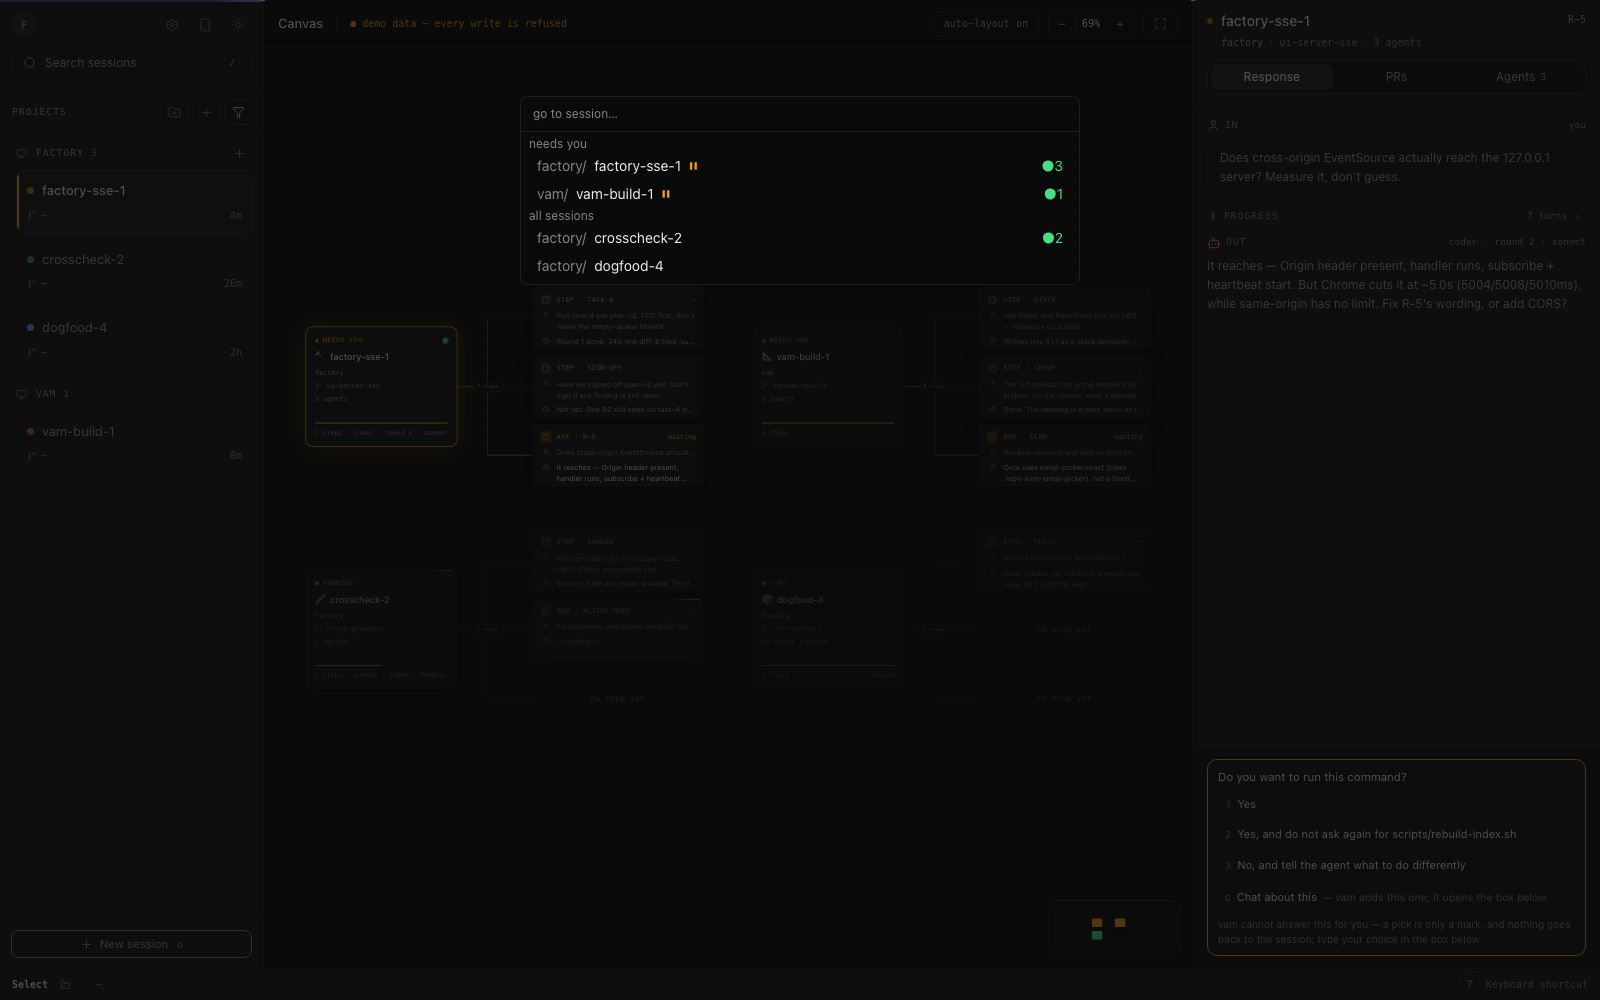
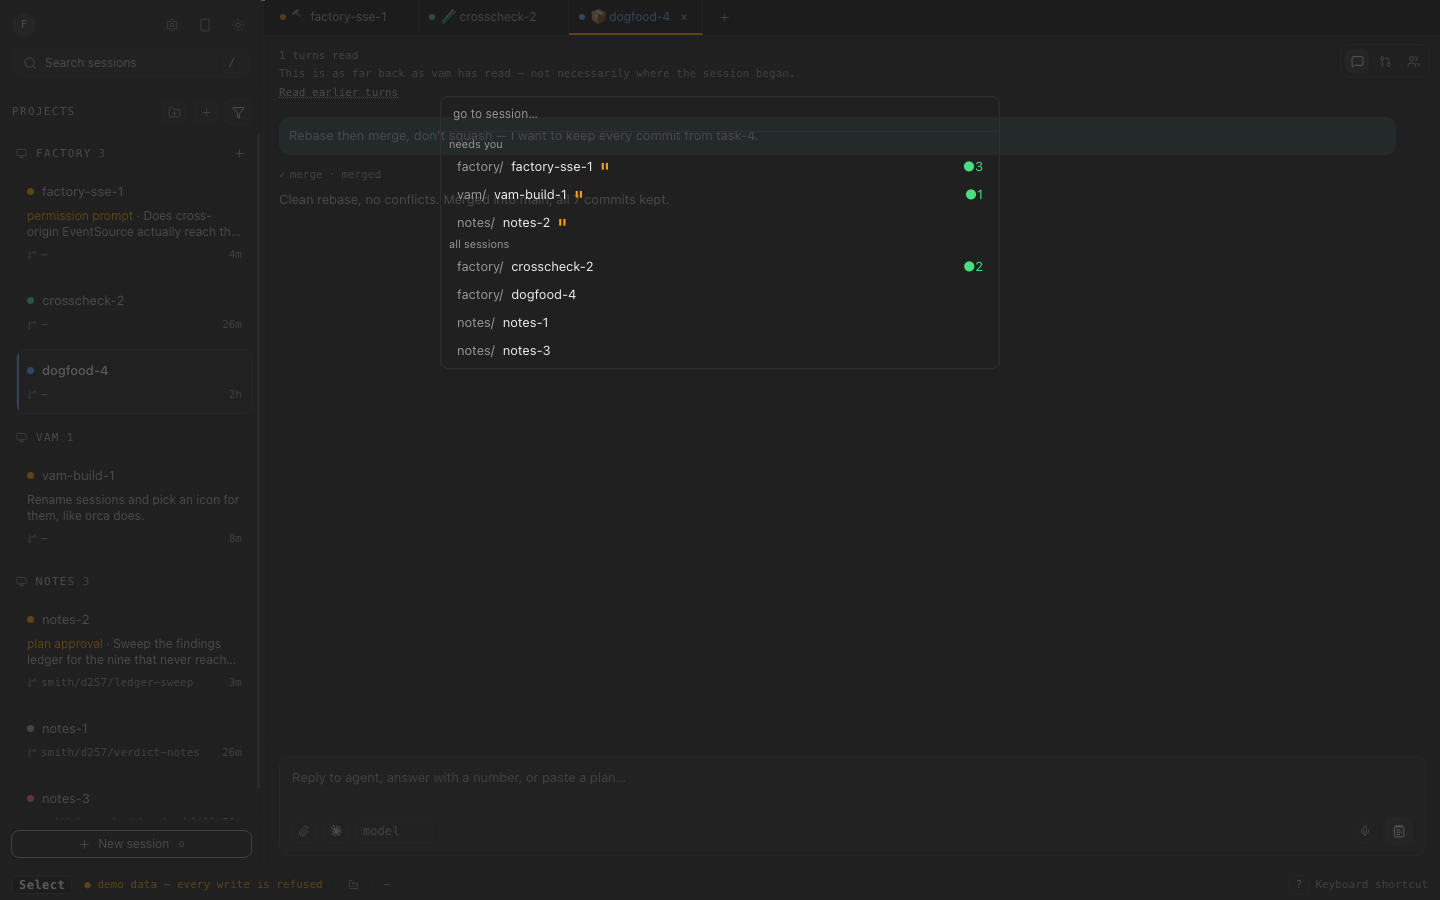
The README's front page shows a feature that was deleted three weeks ago (#343)
* docs(readme): retake the front-page screenshots for the 0.2 tab shell

canvas-dark.png, palette.png, terminal.png and image-attach.png all
predated PR #260 (the tab-shell migration) and showed the deleted
node-graph canvas, the pre-lift dark palette, or both — measured pixel
colours confirm the old (unlifted) #131313/#1d1d1d ground and pane
rather than today's #1c1c1c/#272727.

Retaken against a real `vite build`/`vite preview` of the current
build, `?demo=1` only, via a new e2e/readme-shots.mjs (wired into
e2e/README.md so the next retake is one command):

- hero-dark.png replaces canvas-dark.png: the tab shell itself —
  sidebar, sessions as tabs, one session's Response view with its
  IN/OUT.
- palette.png is re-rendered over the current shell instead of the
  deleted canvas; same content otherwise.
- agents-tab.png replaces terminal.png. The Terminal tab is withdrawn
  from the bar entirely in demo mode (no real tmux pane behind it,
  visibleTabs() in panels/tabs.ts), so it cannot be retaken like for
  like; the Agents tab is a real, current, demo-safe capability
  instead, and Terminal stays documented in prose.
- composer-attach.png replaces image-attach.png, showing the text-file
  attach rather than the image attach: the image-attach button needs a
  native Electron dialog and is likewise never drawn in demo mode.
  README prose still describes both capabilities; only the pictured
  one changed.
[…]

diff --git a/README.md b/README.md
@@ -7,7 +7,7 @@ vim-style keys instead of a mouse. vam runs on
 its own — it ships with a real, built-in source (your own Claude Code
 sessions) and does not require any other project to be installed or running.
 
-![vam, dark theme](docs/images/canvas-dark.png)
+![vam, dark theme: sessions as tabs, grouped by project in the sidebar, one session's IN/OUT on the right](docs/images/hero-dark.png)
 
 ## What this is
 
@@ -38,16 +38,26 @@ grouped into "needs you" and "all sessions":
 
 ![Command palette open](docs/images/palette.png)
 
-A session's Terminal tab shows the screen of the tmux pane vam started for
-it — a snapshot with the agent's own colours, not a live stream:
+A session's Agents tab is a navigator: the roster of subagents it is
+running on the left, and on the right the one you picked — its own IN/OUT
+and progress, not just the `●3` badge it collapses to elsewhere. (A session
+started by vam also has a Terminal tab, the screen of the tmux pane vam
+started for it — a snapshot with the agent's own colours, not a live
+stream; see the keyboard reference below.)
 
-![Terminal tab showing a captured pane](docs/images/terminal.png)
+![Agents tab showing one subagent's own IN/OUT](docs/images/agents-tab.png)
 
-The composer can attach a text file (read locally, folded into the prompt)
-or an image (validated against the session's own directory, its path put on
-its own line); vam uploads nothing in either case:
+The composer can attach a text file, read locally and folded straight into
+the prompt — vam uploads nothing:
 
-![Composer with an image attached](docs/images/image-attach.png)
+![Composer with a text file attached](docs/images/composer-attach.png)
+
+The desktop app can also attach an image, opening a native file picker and
+validating the answer against the session's own directory before putting its
+path on its own line in the prompt text; that dialog has no browser
+equivalent, so it is not pictured here — every screenshot in this README is
+`?demo=1`, vam's fictional fixture, and the image picker only exists where a
+real session and a real directory do.
 
 ## Install
 

diff --git a/e2e/README.md b/e2e/README.md
@@ -591,3 +591,35 @@ Falsified 2026-09-08: making `zv` a no-op in the served bundle (with
 `VAM_E2E_SKIP_BUILD=1`) reddens the job in 12s, naming both
 `split-panes-shots.mjs` — *"zv (split vertical) left 1 pane(s), expected 2"* —
 and `prompt-suggest-shots.mjs`, and exits 1.
+
+## `e2e/readme-shots.mjs` — the four screenshots `README.md` embeds
+
+Another shot-taker, not a guard (same reason as the four above; not in
+`run-web-guards.mjs`'s list). It retakes the images `README.md`'s own
+"Screenshots" section links to — `hero-dark.png`, `palette.png`,
+`agents-tab.png`, `composer-attach.png` — against the CURRENT build, `?demo=1`
+only, same rule `phone-list-shots.mjs` states ("live mode would put a real
+workspace, with real paths and real session ids, into a public repo").
+
+The previous four (`canvas-dark.png`, `palette.png`, `terminal.png`,
+`image-attach.png`) all predated PR #260 (the 0.2 tab-shell migration,
+"collapse vam to two panes and drop the canvas layout presets") and showed a
+node-graph canvas that no longer exists, rendered against the pre-lift dark
+palette besides. Two of the four could not be retaken like-for-like: the
+Terminal tab is withdrawn from the bar entirely in demo mode
+(`visibleTabs()` in `panels/tabs.ts`, since `terminalTab` is
+`source.kind === 'session' && …` and `?demo=1` is never `'session'`), and the
+image-attach button is drawn only when `pickImageAttachment !== undefined`,
+which `Canvas.tsx` likewise sets `undefined` for demo — both gate on a real
+Electron dialog / a real tmux pane, neither of which a fictional fixture has
+to show. `readme-shots.mjs`'s own header comment has the full reasoning.
+`agents-tab.png` and `composer-attach.png` take their two slots instead, with
+two real, current, demo-safe capabilities.
+
+Run against a running preview server, same pattern as the scripts above:
+
+```bash
+node_modules/.bin/vite build --config vite.web.config.ts
+node_modules/.bin/vite preview --config vite.web.config.ts --port 5529
+node e2e/readme-shots.mjs http://localhost:5529 docs/images
+```
